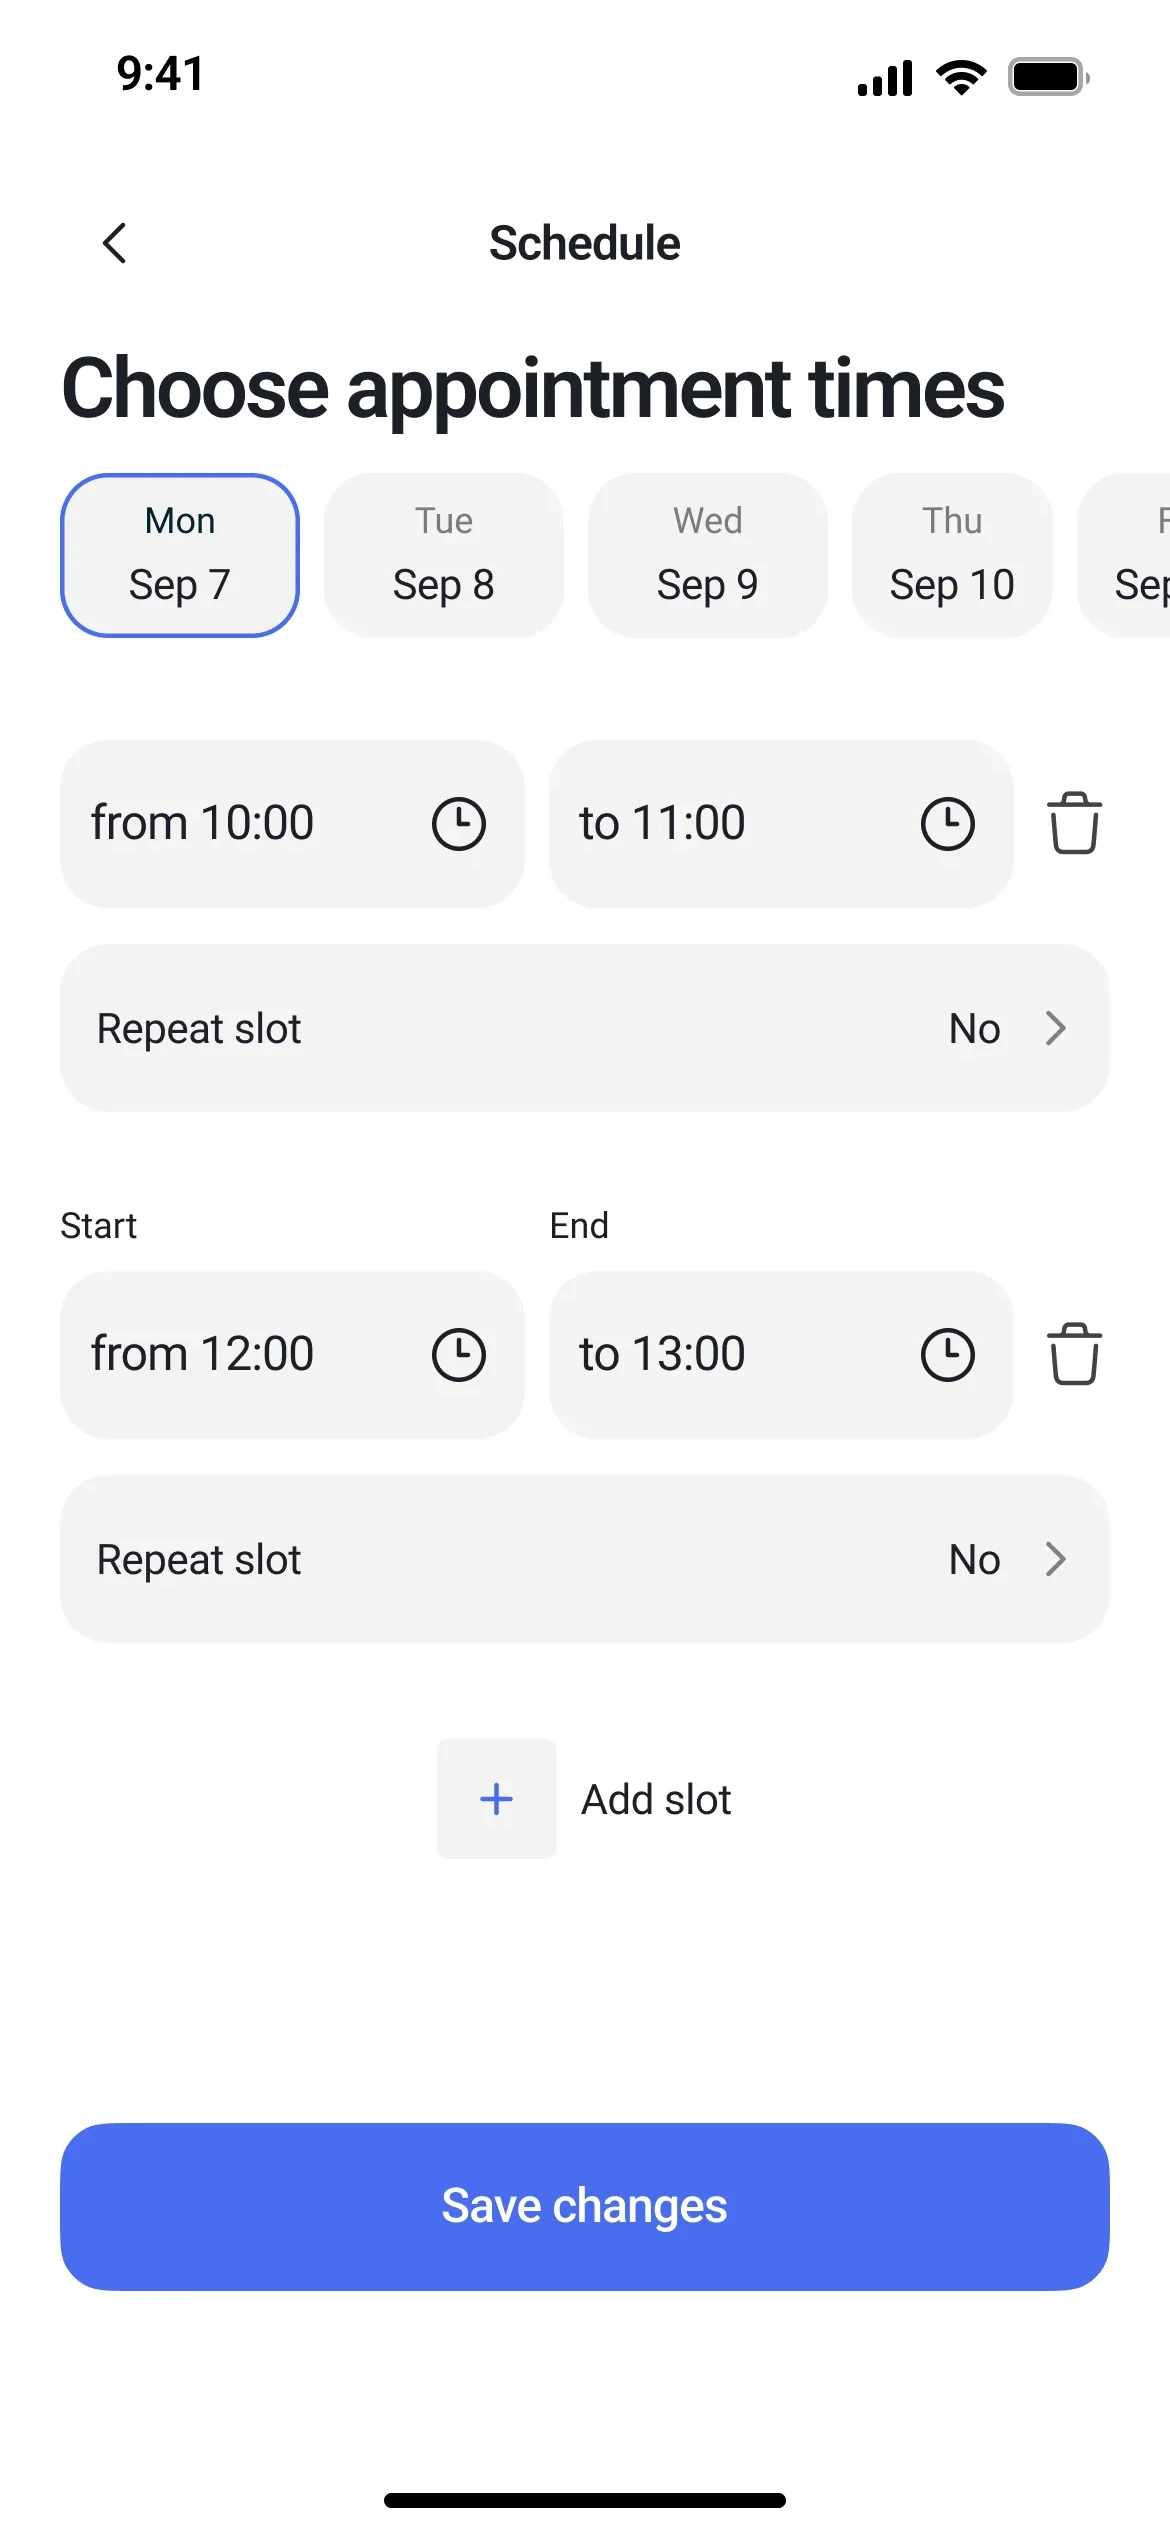
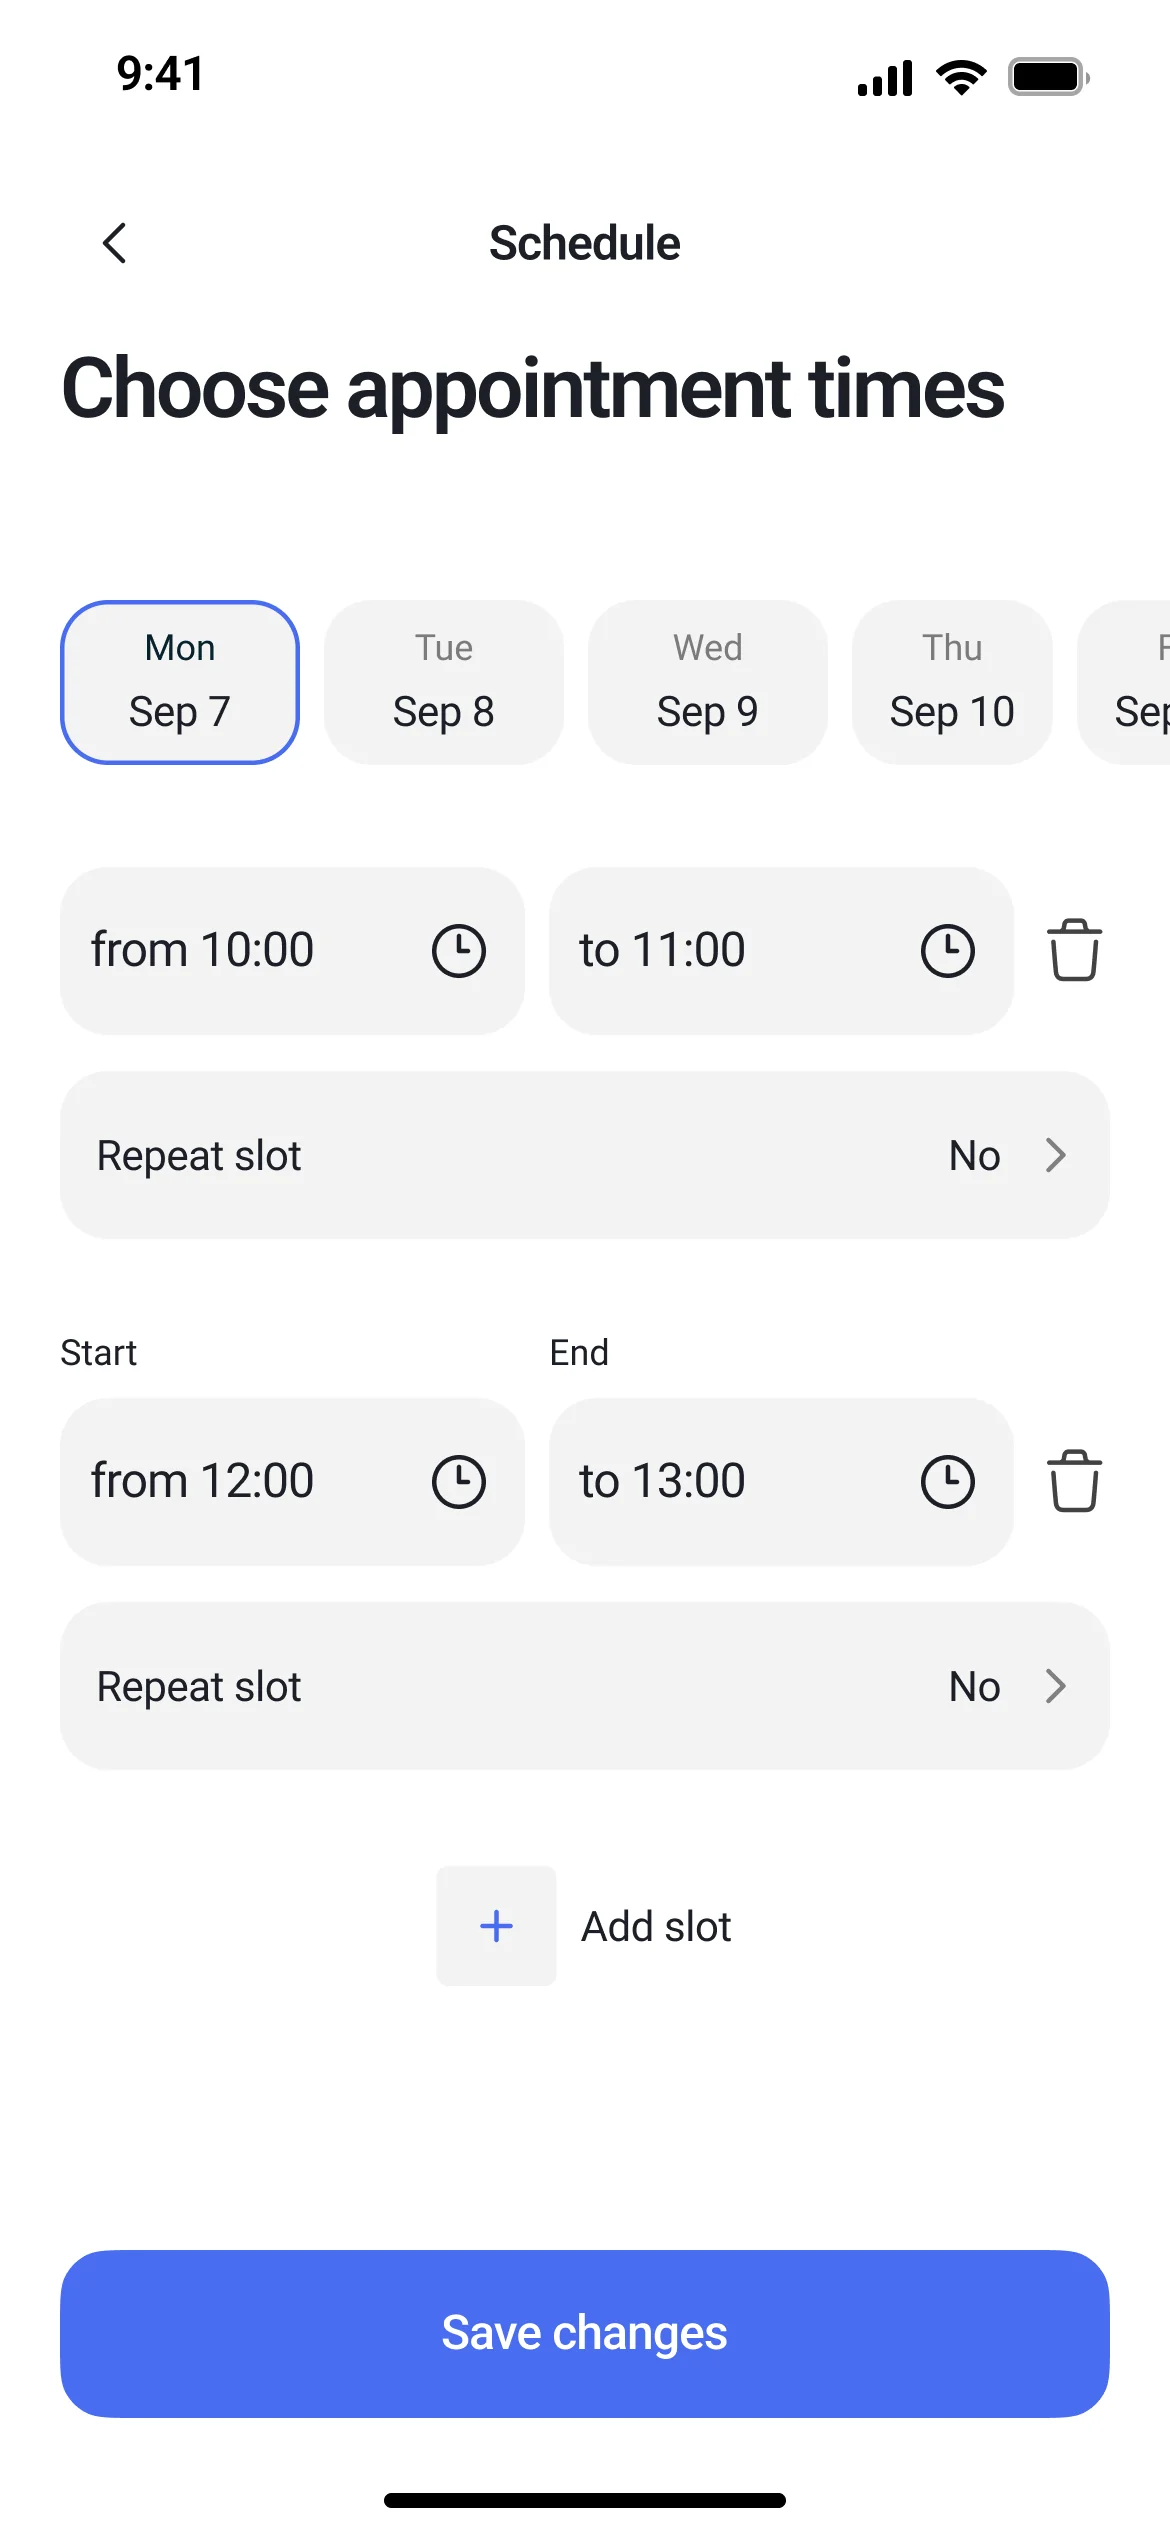
Put the two schedule screens back to their exported originals
My edit moved the cut space to below the primary button, which is
pinned to the bottom of the screen. "Save changes" floated up and left
a void above the home indicator — a worse defect than the one I set out
to fix, and she caught it in my own before/after picture.

Both files are the untouched exports again. Cache key goes to v=5 so
anyone served the broken v=4 gets the original back.

diff --git a/ru/itab-specialists.html b/ru/itab-specialists.html
@@ -252,12 +252,12 @@
         <figure class="case__figure">
           <div class="case__figure-desktop case__itab-board case__itab-board--trio" aria-label="Выбор доступных дат, настройка слотов и управление консультацией">
             <img class="case__itab-board-phone case__itab-board-phone--first" src="../assets/case-itab-sp-s-dates.webp?v=3" alt="Расписание — выбор дат, открытых для записи, в календаре" loading="lazy" width="585" height="1266">
-            <img class="case__itab-board-phone case__itab-board-phone--second" src="../assets/case-itab-sp-s-slots.webp?v=4" alt="Расписание — слоты по дням с опцией повтора" loading="lazy" width="585" height="1266">
+            <img class="case__itab-board-phone case__itab-board-phone--second" src="../assets/case-itab-sp-s-slots.webp?v=5" alt="Расписание — слоты по дням с опцией повтора" loading="lazy" width="585" height="1266">
             <img class="case__itab-board-phone case__itab-board-phone--third case__itab-board-phone--dim" src="../assets/case-itab-sp-c-actions.webp?v=3" alt="Действия с консультацией — подтвердить, написать клиенту или отменить" loading="lazy" width="585" height="1266">
           </div>
           <div class="case__slider" role="group" aria-label="Пролистайте расписание и экраны управления консультациями">
             <div class="case__slide"><img class="case__shot case__shot--phone" src="../assets/case-itab-sp-s-dates.webp?v=3" alt="Расписание — выбор дат, открытых для записи, в календаре" loading="lazy" width="585" height="1266"></div>
-            <div class="case__slide"><img class="case__shot case__shot--phone" src="../assets/case-itab-sp-s-slots.webp?v=4" alt="Расписание — слоты по дням с опцией повтора" loading="lazy" width="585" height="1266"></div>
+            <div class="case__slide"><img class="case__shot case__shot--phone" src="../assets/case-itab-sp-s-slots.webp?v=5" alt="Расписание — слоты по дням с опцией повтора" loading="lazy" width="585" height="1266"></div>
             <div class="case__slide"><img class="case__shot case__shot--phone case__shot--dim" src="../assets/case-itab-sp-c-actions.webp?v=3" alt="Действия с консультацией — подтвердить, написать клиенту или отменить" loading="lazy" width="585" height="1266"></div>
           </div>
           <figcaption>Свободное время специалист выставляет заранее; дальше каждый занятый слот ведёт к одним и тем же действиям — подтвердить, написать клиенту или отменить с причиной.</figcaption>
@@ -269,12 +269,12 @@
           <div class="case__figure-desktop case__itab-board case__itab-board--trio" aria-label="Анкета вернулась на доработку, нет свободного времени и занятый слот, который нельзя удалить">
             <img class="case__itab-board-phone case__itab-board-phone--first" src="../assets/case-itab-sp-st-fix.webp?v=3" alt="Кабинет, когда анкета вернулась — причина и способ исправить" loading="lazy" width="585" height="1266">
             <img class="case__itab-board-phone case__itab-board-phone--second" src="../assets/case-itab-sp-st-notime.webp?v=3" alt="На выбранную дату нет свободного времени — предлагается ближайший слот" loading="lazy" width="585" height="1287">
-            <img class="case__itab-board-phone case__itab-board-phone--third" src="../assets/case-itab-sp-st-slotbooked.webp?v=4" alt="Слот с записью нельзя удалить — специалисту предлагается перенос" loading="lazy" width="585" height="1266">
+            <img class="case__itab-board-phone case__itab-board-phone--third" src="../assets/case-itab-sp-st-slotbooked.webp?v=5" alt="Слот с записью нельзя удалить — специалисту предлагается перенос" loading="lazy" width="585" height="1266">
           </div>
           <div class="case__slider" role="group" aria-label="Пролистайте три показательных состояния, добавленных в позднем аудите">
             <div class="case__slide"><img class="case__shot case__shot--phone" src="../assets/case-itab-sp-st-fix.webp?v=3" alt="Кабинет, когда анкета вернулась — причина и способ исправить" loading="lazy" width="585" height="1266"></div>
             <div class="case__slide"><img class="case__shot case__shot--phone" src="../assets/case-itab-sp-st-notime.webp?v=3" alt="На выбранную дату нет свободного времени — предлагается ближайший слот" loading="lazy" width="585" height="1287"></div>
-            <div class="case__slide"><img class="case__shot case__shot--phone" src="../assets/case-itab-sp-st-slotbooked.webp?v=4" alt="Слот с записью нельзя удалить — специалисту предлагается перенос" loading="lazy" width="585" height="1266"></div>
+            <div class="case__slide"><img class="case__shot case__shot--phone" src="../assets/case-itab-sp-st-slotbooked.webp?v=5" alt="Слот с записью нельзя удалить — специалисту предлагается перенос" loading="lazy" width="585" height="1266"></div>
           </div>
           <figcaption>Состояния, с которыми сервис сталкивается в первые недели. Каждое ведёт человека дальше — причина и способ исправить, ближайший свободный слот, перенос, — вместо тупика.</figcaption>
         </figure>

diff --git a/itab-specialists.html b/itab-specialists.html
@@ -259,12 +259,12 @@
         <figure class="case__figure">
           <div class="case__figure-desktop case__itab-board case__itab-board--trio" aria-label="Choosing available dates, setting slots and managing a consultation">
             <img class="case__itab-board-phone case__itab-board-phone--first" src="assets/case-itab-sp-s-dates.webp?v=3" alt="Schedule — choosing the dates open for booking on a calendar" loading="lazy" width="1170" height="2532">
-            <img class="case__itab-board-phone case__itab-board-phone--second" src="assets/case-itab-sp-s-slots.webp?v=4" alt="Schedule — time slots per day with a repeat option" loading="lazy" width="1170" height="2532">
+            <img class="case__itab-board-phone case__itab-board-phone--second" src="assets/case-itab-sp-s-slots.webp?v=5" alt="Schedule — time slots per day with a repeat option" loading="lazy" width="1170" height="2532">
             <img class="case__itab-board-phone case__itab-board-phone--third case__itab-board-phone--dim" src="assets/case-itab-sp-c-actions.webp?v=3" alt="Consultation actions — confirm, write to the client or cancel" loading="lazy" width="1170" height="2532">
           </div>
           <div class="case__slider" role="group" aria-label="Swipe through the schedule and the consultation management screens">
             <div class="case__slide"><img class="case__shot case__shot--phone" src="assets/case-itab-sp-s-dates.webp?v=3" alt="Schedule — choosing the dates open for booking on a calendar" loading="lazy" width="1170" height="2532"></div>
-            <div class="case__slide"><img class="case__shot case__shot--phone" src="assets/case-itab-sp-s-slots.webp?v=4" alt="Schedule — time slots per day with a repeat option" loading="lazy" width="1170" height="2532"></div>
+            <div class="case__slide"><img class="case__shot case__shot--phone" src="assets/case-itab-sp-s-slots.webp?v=5" alt="Schedule — time slots per day with a repeat option" loading="lazy" width="1170" height="2532"></div>
             <div class="case__slide"><img class="case__shot case__shot--phone case__shot--dim" src="assets/case-itab-sp-c-actions.webp?v=3" alt="Consultation actions — confirm, write to the client or cancel" loading="lazy" width="1170" height="2532"></div>
           </div>
           <figcaption>Availability is built before appointments arrive; each booked slot then leads to the same operational actions — confirm, contact the client or cancel with a reason.</figcaption>
@@ -276,12 +276,12 @@
           <div class="case__figure-desktop case__itab-board case__itab-board--trio" aria-label="Profile returned for fixes, no free time and a booked slot that cannot be deleted">
             <img class="case__itab-board-phone case__itab-board-phone--first" src="assets/case-itab-sp-st-fix.webp?v=3" alt="Dashboard when the application comes back — the reason and a way to fix it" loading="lazy" width="1170" height="2532">
             <img class="case__itab-board-phone case__itab-board-phone--second" src="assets/case-itab-sp-st-notime.webp?v=3" alt="No free time on the chosen date — the nearest slot is offered instead" loading="lazy" width="1170" height="2574">
-            <img class="case__itab-board-phone case__itab-board-phone--third" src="assets/case-itab-sp-st-slotbooked.webp?v=4" alt="A schedule slot with a booking cannot be removed — the specialist is offered to reschedule" loading="lazy" width="1170" height="2532">
+            <img class="case__itab-board-phone case__itab-board-phone--third" src="assets/case-itab-sp-st-slotbooked.webp?v=5" alt="A schedule slot with a booking cannot be removed — the specialist is offered to reschedule" loading="lazy" width="1170" height="2532">
           </div>
           <div class="case__slider" role="group" aria-label="Swipe through three representative service states">
             <div class="case__slide"><img class="case__shot case__shot--phone" src="assets/case-itab-sp-st-fix.webp?v=3" alt="Dashboard when the application comes back — the reason and a way to fix it" loading="lazy" width="1170" height="2532"></div>
             <div class="case__slide"><img class="case__shot case__shot--phone" src="assets/case-itab-sp-st-notime.webp?v=3" alt="No free time on the chosen date — the nearest slot is offered instead" loading="lazy" width="1170" height="2574"></div>
-            <div class="case__slide"><img class="case__shot case__shot--phone" src="assets/case-itab-sp-st-slotbooked.webp?v=4" alt="A schedule slot with a booking cannot be removed — the specialist is offered to reschedule" loading="lazy" width="1170" height="2532"></div>
+            <div class="case__slide"><img class="case__shot case__shot--phone" src="assets/case-itab-sp-st-slotbooked.webp?v=5" alt="A schedule slot with a booking cannot be removed — the specialist is offered to reschedule" loading="lazy" width="1170" height="2532"></div>
           </div>
           <figcaption>The states a real service meets in its first weeks. Each one keeps the person moving — a reason and a fix, the nearest free slot, a reschedule — instead of ending the flow.</figcaption>
         </figure>
